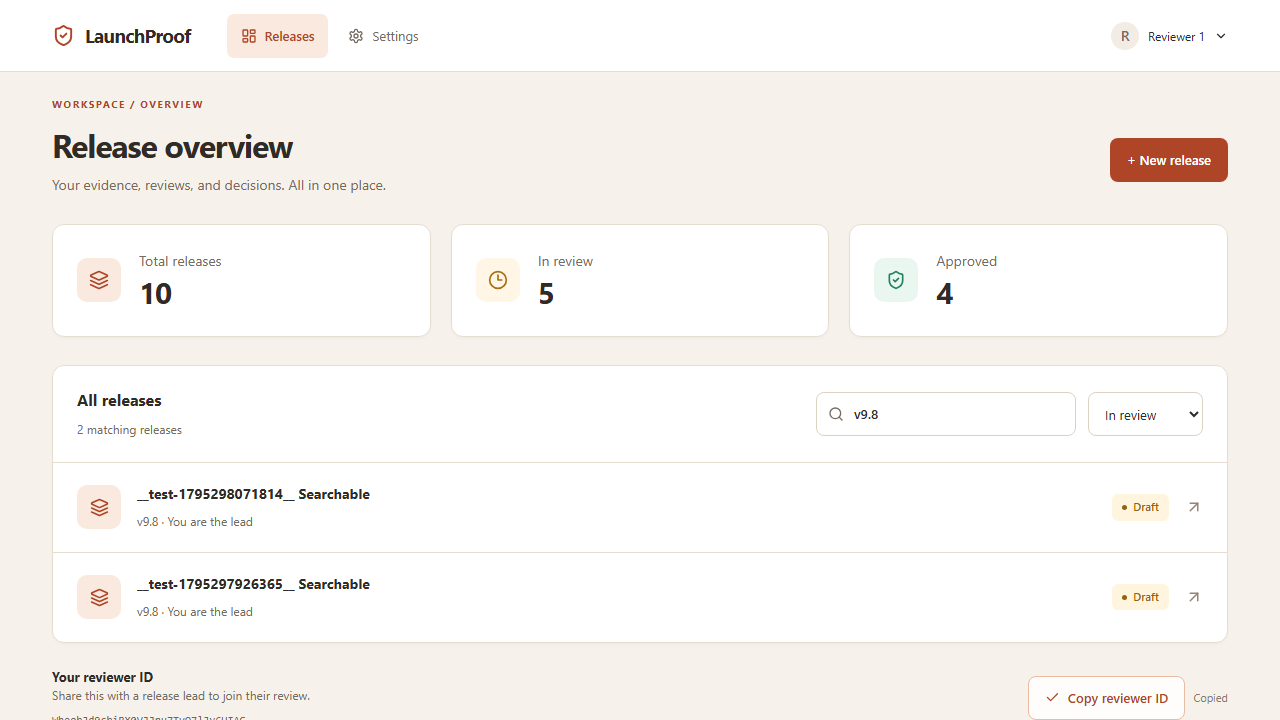
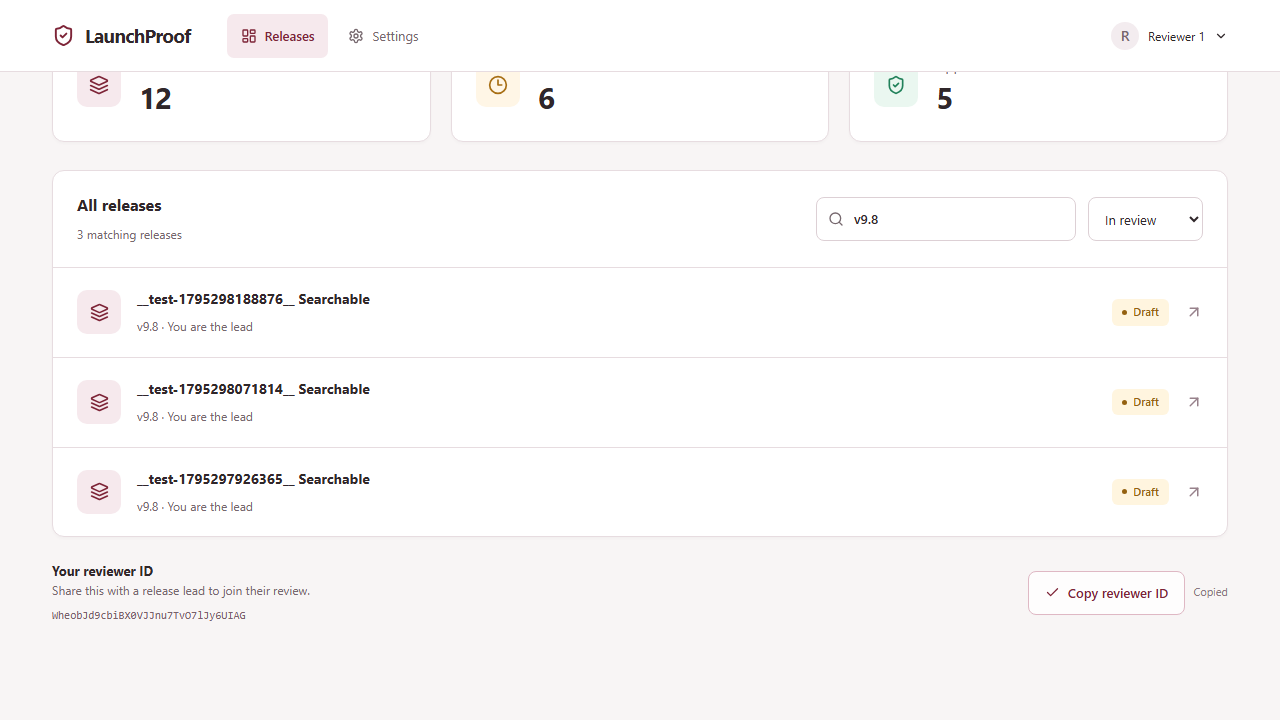
Apply requested deep maroon theme and record verification

diff --git a/src/launchproof.css b/src/launchproof.css
@@ -1,12 +1,12 @@
 /* LaunchProof: shared warm-dashboard tokens and small, composable layouts. */
 :root {
-  --lp-bg: #f6f2eb;
+  --lp-bg: #f8f5f5;
   --lp-surface: #ffffff;
-  --lp-text: #302b26;
-  --lp-muted: #756b61;
-  --lp-line: #e6ddd1;
-  --lp-accent: #ad4526;
-  --lp-accent-soft: #fae9de;
+  --lp-text: #30272a;
+  --lp-muted: #76686e;
+  --lp-line: #e7dce0;
+  --lp-accent: #7d2437;
+  --lp-accent-soft: #f6e9ed;
   --lp-radius: 12px;
 }
 .lp-page {
@@ -72,8 +72,8 @@
     box-shadow 160ms ease;
 }
 .lp-button:hover {
-  background: #8e361c;
-  box-shadow: 0 3px 10px #ad452618;
+  background: #581526;
+  box-shadow: 0 3px 10px #7d243718;
 }
 .lp-button:disabled {
   opacity: 0.5;
@@ -81,7 +81,7 @@
   box-shadow: none;
 }
 .lp-secondary {
-  color: #66584c;
+  color: #68525b;
   background: var(--lp-surface);
   border-color: var(--lp-line);
 }
@@ -89,11 +89,11 @@
 .lp-secondary[aria-pressed='true'] {
   color: var(--lp-accent);
   background: var(--lp-accent-soft);
-  border-color: #e9bba3;
+  border-color: #dfb8c4;
 }
 .lp-page :focus-visible,
 .lp-landing :focus-visible {
-  outline: 3px solid #d8956f;
+  outline: 3px solid #bb7087;
   outline-offset: 3px;
 }
 .lp-panel,
@@ -194,7 +194,7 @@
   width: 100%;
   min-height: 44px;
   padding: 10px 12px;
-  border: 1px solid #ddd1c2;
+  border: 1px solid #ddd0d5;
   border-radius: 8px;
   background: var(--lp-surface);
   color: var(--lp-text);
@@ -202,7 +202,7 @@
 }
 .lp-page input::placeholder,
 .lp-page textarea::placeholder {
-  color: #948677;
+  color: #94828a;
 }
 .lp-page textarea {
   min-height: 100px;
@@ -239,7 +239,7 @@
   border-bottom: 0;
 }
 .lp-release-row:hover {
-  background: #fcf6ef;
+  background: #fcf6f8;
 }
 .lp-release-row > div {
   flex: 1;
@@ -253,7 +253,7 @@
   margin-top: 5px;
 }
 .lp-release-row > svg {
-  color: #958574;
+  color: #97818b;
 }
 .lp-badge {
   display: inline-flex;
@@ -262,8 +262,8 @@
   font-size: 11px;
   font-weight: 550;
   text-transform: capitalize;
-  background: #f0e9df;
-  color: #736453;
+  background: #f1e9ec;
+  color: #75616a;
   padding: 5px 10px;
   border-radius: 6px;
   white-space: nowrap;
@@ -299,7 +299,7 @@
   text-align: center;
 }
 .lp-empty svg {
-  color: #c0967d;
+  color: #bc8b9b;
 }
 .lp-identity-panel {
   display: flex;
@@ -319,7 +319,7 @@
 .lp-identity code {
   display: inline-block;
   font-size: 11px;
-  color: #756454;
+  color: #78616b;
   overflow-wrap: anywhere;
   margin-top: 7px;
 }
@@ -361,9 +361,9 @@
   place-items: center;
   width: 30px;
   height: 30px;
-  background: #f3eae0;
+  background: #f3eaee;
   border-radius: 7px;
-  color: #a07e67;
+  color: #a17a8a;
   font: 11px monospace;
   flex-shrink: 0;
 }
@@ -381,12 +381,12 @@
 }
 .lp-score span {
   font-size: 22px;
-  color: #b9a997;
+  color: #bba6b0;
 }
 .lp-note {
   font-size: 11px !important;
   margin-top: 16px;
-  color: #897b6c !important;
+  color: #8b7781 !important;
   line-height: 1.7;
 }
 .lp-page progress {
@@ -435,7 +435,7 @@
   top: 6px;
   width: 7px;
   height: 7px;
-  background: #d68b63;
+  background: #bd7890;
   border-radius: 50%;
 }
 .lp-event p {
@@ -443,7 +443,7 @@
 }
 .lp-event time {
   font-size: 10px;
-  color: #9a8b7a;
+  color: #9c8691;
 }
 
 /* Static front door: a clear product overview, no auth or record providers. */
@@ -501,14 +501,14 @@
 }
 .lp-preview {
   background: white;
-  border: 1px solid #e4d6c6;
+  border: 1px solid #e5d6dc;
   border-radius: 14px;
-  box-shadow: 0 24px 60px #5b391a18;
+  box-shadow: 0 24px 60px #5b193418;
   overflow: hidden;
   transform: rotate(-1deg);
 }
 .lp-preview-header {
-  background: #fbf6ef;
+  background: #fbf6f8;
   padding: 19px 22px;
   display: flex;
   justify-content: space-between;
@@ -534,11 +534,11 @@
   display: flex;
   align-items: center;
   gap: 12px;
-  border-bottom: 1px solid #eee4d8;
+  border-bottom: 1px solid #eee3e8;
   font-size: 12px;
 }
 .lp-preview-row > span {
-  color: #a39381;
+  color: #a58e99;
   font: 10px monospace;
 }
 .lp-preview-row strong {
@@ -552,7 +552,7 @@
   margin: 18px 24px 24px;
   padding: 13px;
   background: var(--lp-accent-soft);
-  color: #955135;
+  color: #81394e;
   font-size: 11px;
   border-radius: 7px;
 }
@@ -564,7 +564,7 @@
   gap: 24px;
 }
 .lp-benefits section {
-  border-top: 1px solid #e4d6c6;
+  border-top: 1px solid #e5d6dc;
   padding-top: 22px;
 }
 .lp-benefits svg {
@@ -722,7 +722,7 @@
   .lp-panel {
     break-inside: avoid;
     box-shadow: none;
-    border-color: #b9a895;
+    border-color: #baa5af;
   }
   .lp-page p {
     color: #494038;

diff --git a/src/themes.css b/src/themes.css
@@ -20,28 +20,28 @@
  * `color-scheme: light`. Replace or delete it once the app has its own. */
 [data-theme="paper"] {
   color-scheme: light;
-  --color-background: #f6f2eb;
-  --color-foreground: #302b26;
-  --color-card: #fffdf9;
-  --color-card-foreground: #302b26;
+  --color-background: #f8f5f5;
+  --color-foreground: #30272a;
+  --color-card: #fffdfd;
+  --color-card-foreground: #30272a;
   --color-popover: #ffffff;
-  --color-popover-foreground: #302b26;
-  --color-primary: #ad4526;
+  --color-popover-foreground: #30272a;
+  --color-primary: #7d2437;
   --color-primary-foreground: #ffffff;
-  --color-secondary: #f2ece4;
-  --color-secondary-foreground: #302b26;
-  --color-muted: #f2ece4;
-  --color-muted-foreground: #756b61;
-  --color-accent: #e6ddd1;
-  --color-accent-foreground: #302b26;
+  --color-secondary: #f3ecef;
+  --color-secondary-foreground: #30272a;
+  --color-muted: #f3ecef;
+  --color-muted-foreground: #76686e;
+  --color-accent: #e7dce0;
+  --color-accent-foreground: #30272a;
   --color-destructive: #dc2626;
   --color-destructive-foreground: #ffffff;
-  --color-border: #e6ddd1;
-  --color-input: #e6ddd1;
-  --color-ring: #ad4526;
+  --color-border: #e7dce0;
+  --color-input: #e7dce0;
+  --color-ring: #7d2437;
   --shadow-card: 0 1px 2px 0 rgba(0, 0, 0, 0.016);
   --shadow-card-hover: 0 2px 8px 0 rgba(0, 0, 0, 0.032);
-  --color-shell: #fffdf9;
+  --color-shell: #fffdfd;
   --color-shell-panel: #ffffff;
 }
 

diff --git a/index.html b/index.html
@@ -19,7 +19,7 @@
     -->
     <style>
       html { background-color: #0a0a0a; color-scheme: dark; }
-      html[data-theme="paper"] { background-color: #f6f2eb; color-scheme: light; }
+      html[data-theme="paper"] { background-color: #f8f5f5; color-scheme: light; }
       /* Add one line per theme you create, mirroring its --color-background. */
     </style>
   </head>

diff --git a/README.md b/README.md
@@ -23,7 +23,7 @@ Source: https://github.com/sabin901/LaunchProof
 
 ### Dashboard conveniences
 
-- Warm ivory dashboard with charcoal text and burnt-orange accents, live release counts, name/version search, and status filters.
+- Warm off-white dashboard with charcoal text and deep-maroon accents, live release counts, name/version search, and status filters.
 - “Needs attention” focuses the workspace on gates without qualifying evidence.
 - Copy reviewer IDs and workspace URLs to make handoff easier; copying a URL does not grant access.
 - Download a final decision as JSON, copy its summary, or use the print layout. Exports use the saved snapshot, never mutable live gates.
@@ -64,7 +64,7 @@ Three usable DeepSpace test accounts are needed for all tests. Inspect `npx deep
 
 To test an existing deployment without starting a local server, set `LAUNCHPROOF_BASE_URL` to its HTTPS origin and run `npx playwright test --config tests/playwright.config.ts`. Do not point this at an unrelated app.
 
-Verified November 21, 2026 (America/Chicago): 10 unit tests; 19 local Playwright tests, including end-to-end browser approval, independent reviewer enforcement, three-user isolation, underlying record API denials, concurrent decision/edit, concurrent approvals, rejection, reconnect and report refresh. Typecheck, lint and production build passed. All 19 browser tests also passed against the live deployment on November 21, 2026 at approximately 3:43 PM Central, using fresh browser contexts and real production auth/records. The production error-log query returned zero events. The developer has not been credited with personally executing these agent-run checks. See `BUILD_STATE.md` for actual failures and fixes.
+Verified November 21, 2026 (America/Chicago): 10 unit tests; 20 local Playwright tests, including end-to-end browser approval, independent reviewer enforcement, three-user isolation, underlying record API denials, concurrent decision/edit, concurrent approvals, rejection, reconnect and report refresh. Typecheck, lint and production build passed. All 20 browser tests also passed against the live deployment on November 21, 2026 at approximately 3:56 PM Central, using fresh browser contexts and real production auth/records. The production error-log query returned zero events. The developer has not been credited with personally executing these agent-run checks. See `BUILD_STATE.md` for actual failures and fixes.
 
 ## Source and deployment
 
@@ -81,4 +81,5 @@ GitHub is the requested source. Before first deployment, `deepspace status --jso
 - Evidence edits have no version history beyond activity messages; a final decision captures the exact latest evidence. No membership removal, release deletion, retention management, or partial-creation repair UI.
 - New releases may duplicate if creation is retried after an ambiguous network failure; review the list first. Evidence is last-writer-wins before the final decision. Serialization trades throughput for a small, understandable correctness boundary in a single scope.
 - Codex generated the app-specific schemas, rules, actions, UI, tests, and documentation; inspected SDK implementation/types; ran the recorded tests; reviewed desktop/mobile screenshots. The developer supplied the scope, required independent review, authenticated the CLI, and selected the public GitHub repository. No claim is made that the developer personally ran the automated checks.
+
 

diff --git a/SUBMISSION.md b/SUBMISSION.md
@@ -12,7 +12,10 @@ External integrations: none added. We prioritized a complete collaborative workf
 
 Key tradeoff: one fixed production-release policy and human-attested evidence, not automatic CI certification. Actions serialize within the existing RecordRoom; this is not crash rollback, cryptographic immutability, or a claim of unlimited scale.
 
-Codex generated and tested the implementation. Local verification: 10 unit tests, 19 browser tests, typecheck, lint, and production build. These cover actual multi-user synchronization, direct record access controls, independent-review enforcement, concurrency, final-state locks and report persistence. All 19 browser tests also passed against production on November 21, 2026, including the complete two-person approval flow. Production error logs returned zero events in the checked window.
+Codex generated and tested the implementation. Local verification: 10 unit tests, 20 browser tests, typecheck, lint, and production build. These cover actual multi-user synchronization, direct record access controls, independent-review enforcement, concurrency, final-state locks and report persistence. All 20 browser tests also passed against production on November 21, 2026, including the complete two-person approval flow. Production error logs returned zero events in the checked window.
 
 Developer's personal verification: add only checks you actually perform; agent-run tests are listed separately above.
+
+
+The dashboard also supports release search/status filters, an attention view, one-click handoff links, and export/print of saved reports. The interface uses deep-maroon accents on warm off-white. Repeated form request state is consolidated in a small shared hook; no new runtime dependencies were added.
 

diff --git a/BUILD_STATE.md b/BUILD_STATE.md
@@ -78,3 +78,8 @@ Finish Phase 1 UI and pure tests, start authenticated dev server, verify creatio
 - User said blue resembled other projects. Replaced it before deployment with warm ivory (#f6f2eb), charcoal (#302b26), and burnt orange (#ad4526), including borders, focus, navigation, buttons and illustrations. Green/red remain semantic status indicators.
 - End-to-end UI flow rerun after palette change: PASS. Screenshots visually inspected.
 - Dashboard filtering/clipboard/mobile test rerun to capture updated warm screenshots.
+
+## Final requested maroon palette
+- User superseded orange with maroon/dark red. Applied #7d2437 accent, #581526 hover, #f6e9ed soft accents, and warm off-white across CSS and browser theme color.
+- Full redesigned production suite passed 20 tests on the preceding release. After the color-only correction, local UI workflow and dashboard tests both passed; inspected maroon screenshot.
+- Updated README, submission notes and screenshots to match the final theme.
